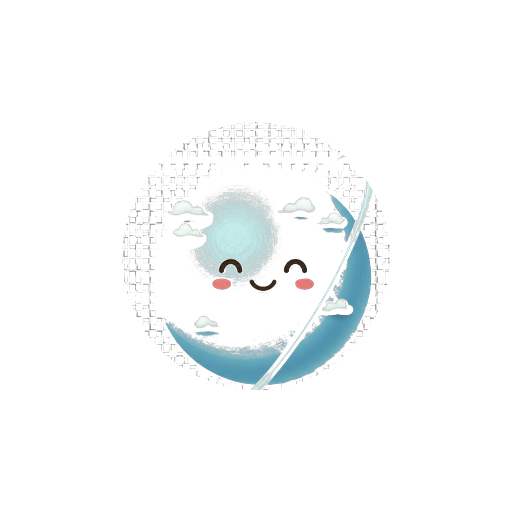
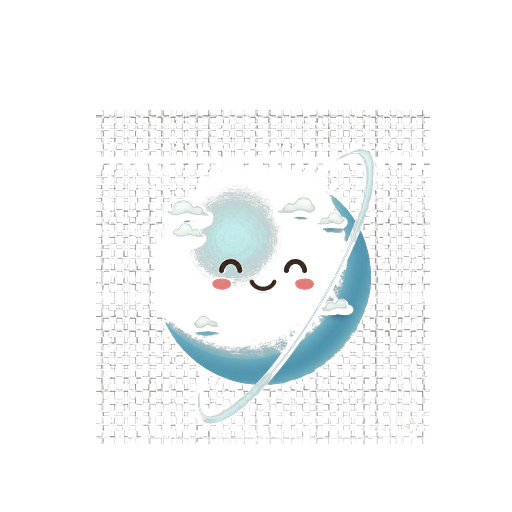
fix(cascade): skip hull-polygon clip for assets with no verts
Assets like Uranus, Saturn, Jupiter, and Sun have empty verts arrays
because their source images have fully transparent backgrounds — no
background disc to clip.  The fallback physics-circle clip was cutting
off Saturn/Uranus rings and shrinking all four discs to ~53% of their
drawn size.

When verts < 3 vertices exist, skip the alpha-mask step entirely.
The source alpha already contains the correct boundary; no further
clipping is needed.

Changed region(s): [[0.1875, 0.2188, 0.8438, 0.875]]

diff --git a/frontend/scripts/bake_sprites.py b/frontend/scripts/bake_sprites.py
@@ -147,18 +147,13 @@ def bake_asset(src_png: pathlib.Path, sprite: dict, out_png: pathlib.Path) -> fl
         (round(v[0] * physics_scale + HALF), round(v[1] * physics_scale + HALF))
         for v in sprite["verts"]
     ]
-    poly_mask = Image.new("L", (out_size, out_size), 0)
     if len(hull_px) >= 3:
+        poly_mask = Image.new("L", (out_size, out_size), 0)
         ImageDraw.Draw(poly_mask).polygon(hull_px, fill=255)
-    else:
-        # Fallback: physics circle
-        r_px = physics_scale
-        ImageDraw.Draw(poly_mask).ellipse(
-            [HALF - r_px, HALF - r_px, HALF + r_px, HALF + r_px], fill=255
-        )
-    existing_alpha = canvas.split()[3]
-    combined_alpha = ImageChops.multiply(existing_alpha, poly_mask)
-    canvas.putalpha(combined_alpha)
+        existing_alpha = canvas.split()[3]
+        combined_alpha = ImageChops.multiply(existing_alpha, poly_mask)
+        canvas.putalpha(combined_alpha)
+    # else: no hull polygon — asset has a transparent background, no clip needed.
 
     # 5. Save
     out_png.parent.mkdir(parents=True, exist_ok=True)
